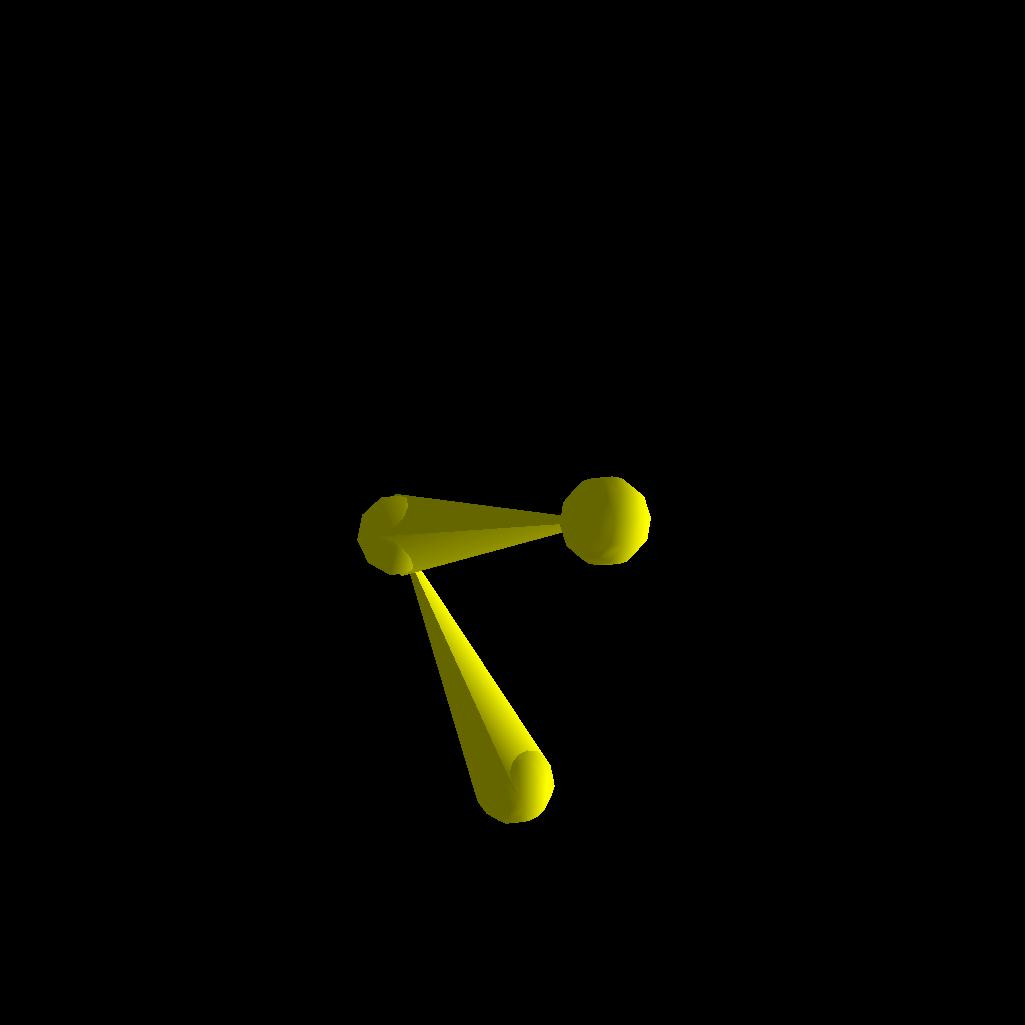
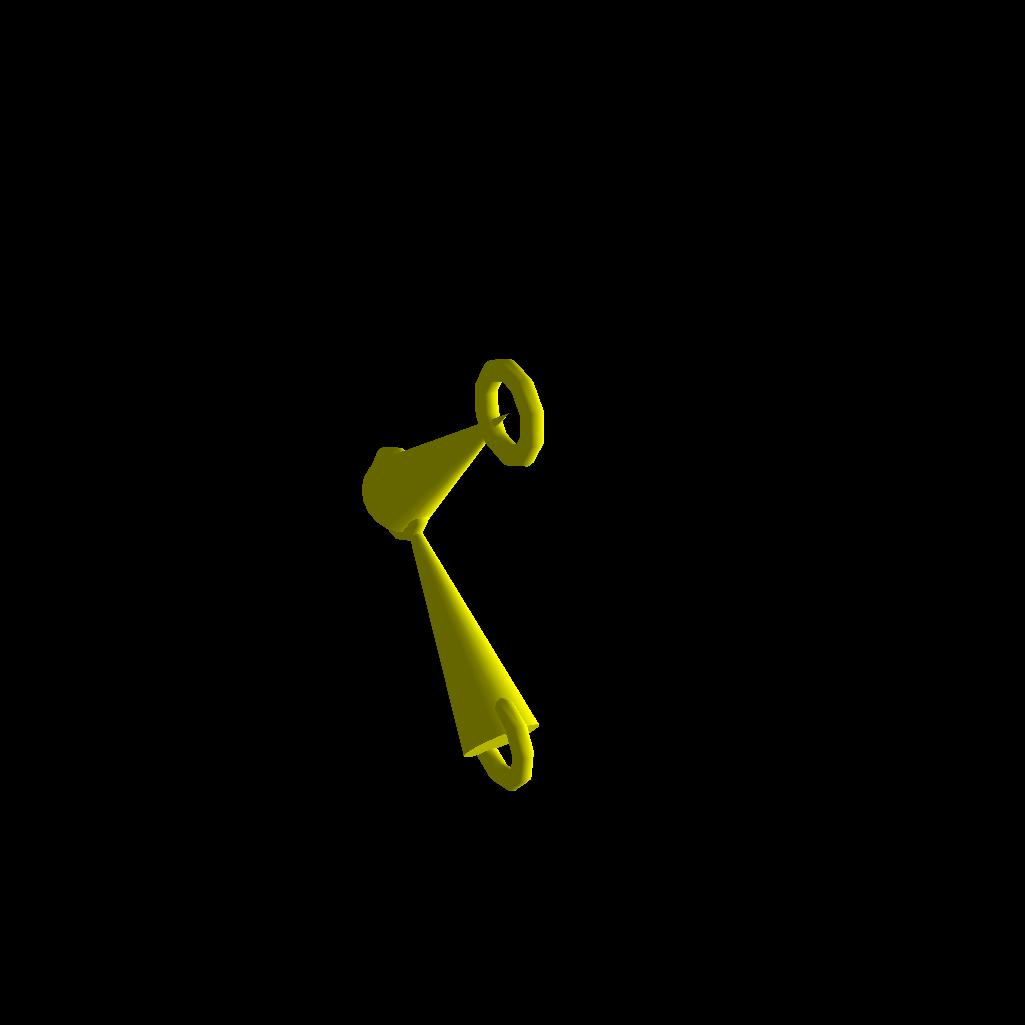
close manipulator frame

Changed region(s): [[0.3434, 0.3434, 0.6556, 0.8117]]

diff --git a/redesign/Model.py b/redesign/Model.py
@@ -725,11 +725,21 @@ class Joint(Model):
             if selectedMode:
                 GL.glLoadName(self.modelId)
             
-            if self.drawFunction == 'sphere':
-                GLUT.glutSolidSphere(.74,10,10)
-            elif self.drawFunction == 'torus':
-                GLUT.glutSolidTorus(0.2,0.74,10,10)
             
+            if not self.flags['showModelWireframe']:
+                GL.glDisable(GL.GL_CULL_FACE)
+                
+                if self.drawFunction == 'sphere':
+                    GLUT.glutSolidSphere(.74,10,10)
+                elif self.drawFunction == 'torus':
+                    GLUT.glutSolidTorus(0.2,0.74,10,10)
+            else:
+                GL.glEnable(GL.GL_CULL_FACE)
+                GL.glCullFace(GL.GL_BACK)
+                if self.drawFunction == 'sphere':
+                    GLUT.glutWireSphere(.74,10,10)
+                elif self.drawFunction == 'torus':
+                    GLUT.glutWireTorus(0.2,0.74,10,10)
             # GLUT.glutSolidCone(1,length,4,4)
             
             if not self.flags['enableLight']:
@@ -768,7 +778,16 @@ class Joint(Model):
                 GL.glColor4fv(tuple(color))
                 if selectedMode:
                     GL.glLoadName(9999)
-                GLUT.glutSolidCone(0.74,length,20,4)
+                
+                if not self.flags['showModelWireframe']:
+                    GL.glDisable(GL.GL_CULL_FACE)
+                    
+                    GLUT.glutSolidCone(0.74,length,20,4)
+                else:
+                    GL.glEnable(GL.GL_CULL_FACE)
+                    GL.glCullFace(GL.GL_BACK)
+                    GLUT.glutWireCone(0.74,length,20,4)
+                    
                 # GL.glLineWidth(3)
                 # GL.glDisable(GL.GL_LIGHTING)
                 # bl = (-length*1*scale,0.5*scale,0.5*scale)
@@ -994,9 +1013,9 @@ class ArticulateObj(Model):
                     GL.glLoadName(self.modelId)
                     
                 self.drawFunction(ratio = 1,selectedMode = selectedMode)
-                
-                if self.isSelected:
-                    self.manipulator.drawManipulator(mode,coordinate,self.currentM,selectedMode,camera)
+                if self.flags['showModelFrame']:
+                    if self.isSelected:
+                        self.manipulator.drawManipulator(mode,coordinate,self.currentM,selectedMode,camera)
                     
                 
                 GL.glEnable(GL.GL_LIGHTING)

diff --git a/redesign/OpenGLWindow.py b/redesign/OpenGLWindow.py
@@ -243,16 +243,16 @@ class OpenGLWindow(fltk.Fl_Gl_Window):
         self.ctl.setWindowWidthHeight(self.w(),self.h())
         self.ctl.readEvent(event)
         # return fltk.Fl_Gl_Window.handle(self, event)
-        # if fltk.Fl.event_key() == ord(' ') and self.flags['snapMode']:
+        if fltk.Fl.event_key() == ord(' ') and self.flags['snapMode']:
                 
-        #         # set backdrop file name
-        #         backdropName = "backdropImg/backdrop_" + str(self.nameNumber)
+                # set backdrop file name
+                backdropName = "backdropImg/backdrop_" + str(self.nameNumber)
                 
-        #         # snap current opengl window image and save
-        #         self.snap(backdropName)
+                # snap current opengl window image and save
+                self.snap(backdropName)
                 
-        #         # update backdrop number name
-        #         self.nameNumber = self.nameNumber + 1
+                # update backdrop number name
+                self.nameNumber = self.nameNumber + 1
         if event == fltk.FL_PUSH:
             return 1
         
@@ -329,7 +329,7 @@ class OpenGLWindow(fltk.Fl_Gl_Window):
             self.testNumber = 0  
             self.iouScore = np.array([])
             self.openBackdropFile("backdropImg/"+str(self.modelType)+"/backdrop_"+str(self.testNumber)+".jpg")
-            self.flags['resetModelTransform'] = True
+            # self.flags['resetModelTransform'] = True
             self.flags['tutorial'] = True
             
         # if test mode is not start

diff --git a/redesign/Controller.py b/redesign/Controller.py
@@ -351,8 +351,8 @@ class CommonController(Handler):
         if self.keyCha == ord('2'):
             self.toggleModelFlags('opacityMode')
         
-        if self.keyCha == ord('s'):
-            self.toggleFlags('snapMode')
+        # if self.keyCha == ord('s'):
+        #     self.toggleFlags('snapMode')
         
         
             
@@ -415,6 +415,8 @@ class StylusController(CommonController):
         self.speed = 0.1
         self.lastClick = 0
         self.stillClick = False
+        self.flags['showModelFrame'] = False
+        
     def runEvent(self,event):
         
         # Run common event
